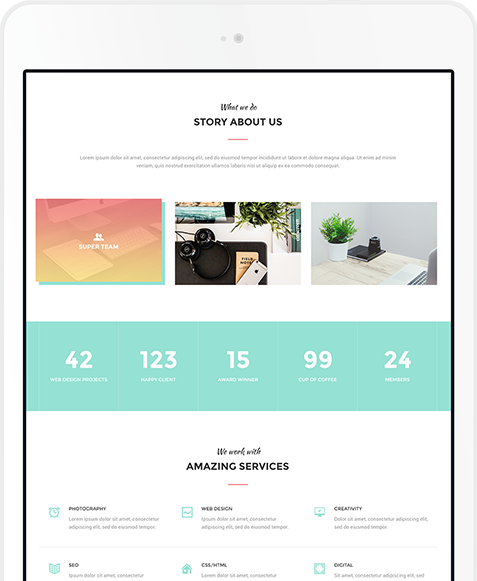
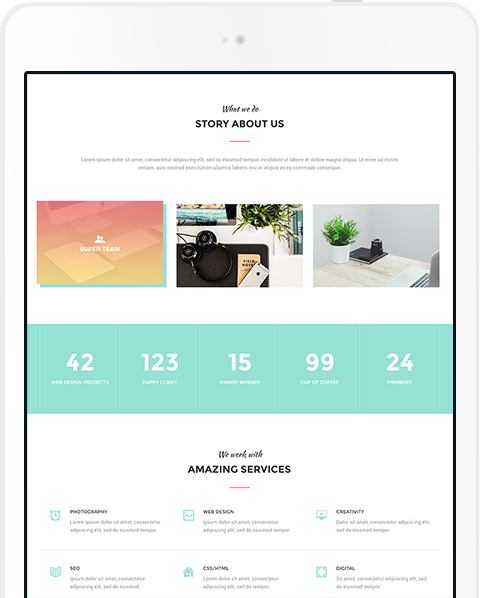
devices

diff --git a/asets/css/style.css b/asets/css/style.css
@@ -227,6 +227,12 @@ hr {
     padding: 80px 0;
 }
 
+.section--devices{
+    background: url("../images/devices/device_bg.jpg") center no-repeat;
+    background-size: cover;
+    padding-bottom: 0;
+}
+
 .section__header {
     width: 100%;
     max-width: 950px;
@@ -383,4 +389,24 @@ hr {
     font-size: 15px;
     color: #999;
     font-family: "Roboto Light";
+}
+
+/* Devices */
+
+.devices{
+    width: 100%;
+    max-width: 600px;
+    margin: 0 auto;
+    position: relative;
+}
+
+.devices__item{
+    display: block;
+}
+
+.devices__item--iphone{
+    position: absolute;
+    bottom: -80px;
+    right: 0;
+    z-index: 1;
 }

diff --git a/mainWindow.html b/mainWindow.html
@@ -192,12 +192,17 @@
     </div> <!-- container -->
 </section>
 
-<section class="section">
+<section class="section section--devices">
     <div class="container">
 
         <div class="section__header">
             <h3 class="section__suptitle">For all devices</h3>
             <h2 class="section__title">Unique design</h2>
+        </div>
+
+        <div class="devices">
+            <img class="devices__item" src="asets/images/devices/ipad.png" alt="ipad">
+            <img class="devices__item devices__item--iphone" src="asets/images/devices/phone.png" alt="iphone">
         </div>
 
 
